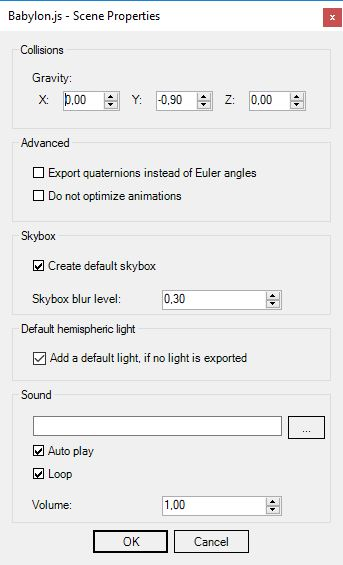
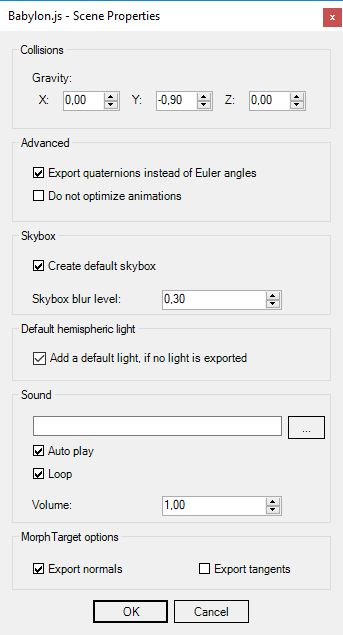
[resources/Exporter 3DS Max & Maya] Add description for the target morph export options

diff --git a/content/resources/Exporter/3DSMax.md b/content/resources/Exporter/3DSMax.md
@@ -100,6 +100,8 @@ All the available blend modes are listed below:
 
 ![Property button](/img/exporters/3DSMax/5_properties_button.jpg)
 
+![Scene properties](/img/exporters/3DSMax/6_properties_window.jpg)
+
 The scene properties allow you to do these things:
 * Set the scene gravity
 * __Export quaternions for all nodes instead of Euler angles__. If this option is selected, an exported model rotation won’t be updated by setting its `rotation` parameter. Instead, you will have to use the `rotationQuaternion` parameter.
@@ -107,8 +109,7 @@ The scene properties allow you to do these things:
 * Create a default skybox from the environment texture when scene is being loaded. An environmnent texture must be setup to enable this feature.
 * Set the blur effect intensity applied to the skybox texture. By default it is slightly blurred. Setting value to 0 disables the blur effect.
 * __Add a default light, if no light is exported__. If this option is checked and there is no light selected for the export, an hemispheric light is added in the exported scene. By default this option is checked.
-
-![Scene properties](/img/exporters/3DSMax/6_properties_window.jpg)
+* __Export normals__ and __Export tangents__ checkboxes allow you to control the morph target export. Note that if you want to export the target morph tangent, you have to check both the __Export tangents__ checkbox and the other __Export tangents__ checkbox of [the exporter window](#the-exporter-window).
 
 ## Object properties 
 

diff --git a/content/resources/Exporter/Maya.md b/content/resources/Exporter/Maya.md
@@ -99,6 +99,8 @@ The _Texture quality_ sets the convertion quality of bitmap to JPEG. At 100 (the
 
 The _Use Draco comression_ option is only available for gltf and glb output format. More detail [here](/resources/Maya_to_glTF#draco-compression).
 
+In the _MorphTarget options_ section, the _Export normal_ and _Export tangent_ checkboxes allow you to customize the morph target export.
+
 # What you should know
 
 ## Camera
